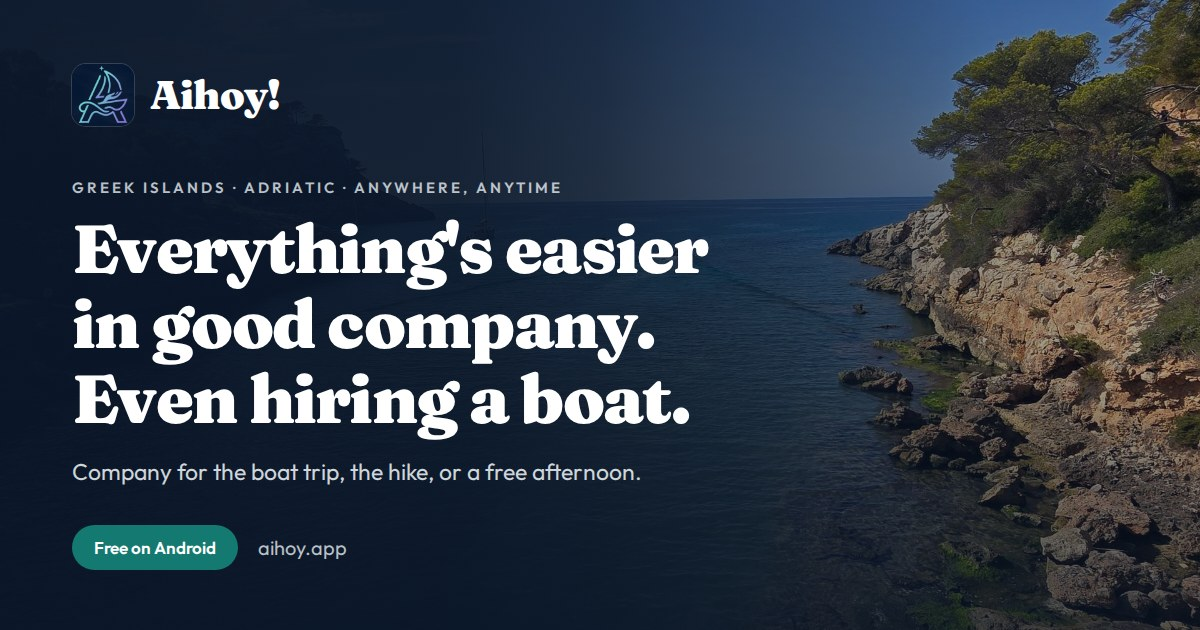
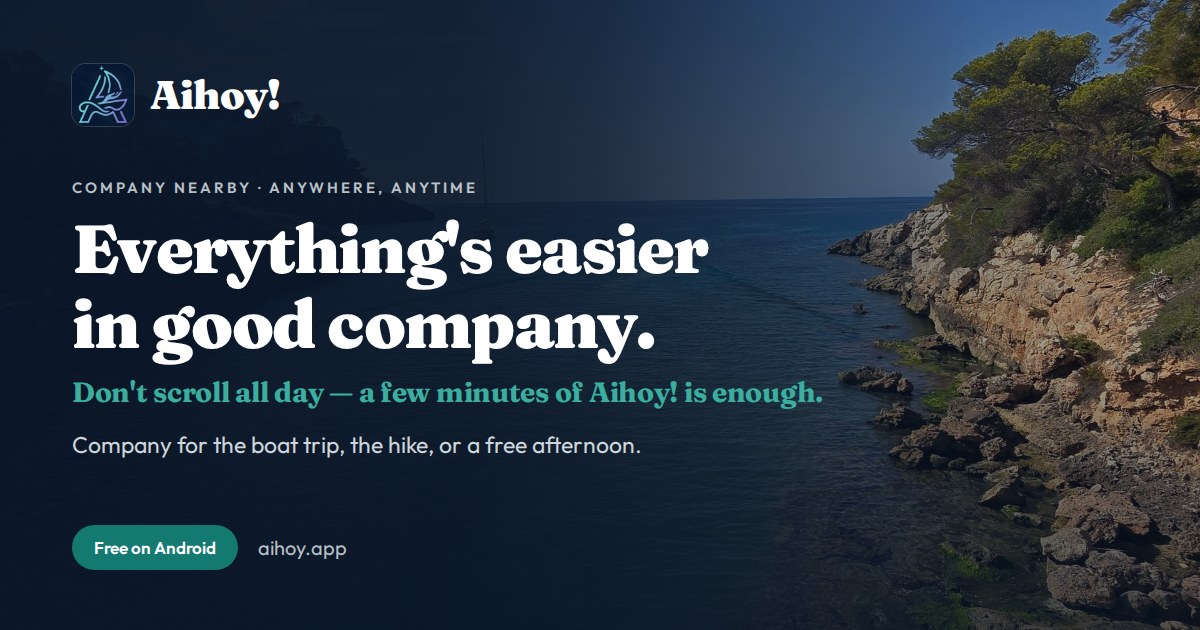
Add files via upload

Changed region(s): [[0.0617, 0.573, 0.6783, 0.7841], [0.0617, 0.2714, 0.4625, 0.3317]]

diff --git a/hu/index.html b/hu/index.html
@@ -4,7 +4,7 @@
 <meta charset="UTF-8">
 <meta name="viewport" content="width=device-width, initial-scale=1.0">
 <title>Aihoy! — Jó társaságban minden könnyebb | Társaság a közeledben</title>
-<meta name="description" content="Jó társaságban nem csak a hajóbérlés könnyebb, hanem minden más program is: az Aihoy! megkeresi a közeledben, kivel oszthatod meg a hajótúrát, a búvárkodást, a kirándulást vagy csak egy szabad délutánt — bárhol, bármikor. Ha összejön, a radar oda is vezet hozzá. Ingyenes Android app.">
+<meta name="description" content="Jó társaságban minden könnyebb — de ne görgess egész nap: az Aihoy! pár perc alatt megkeresi a közeledben, kivel oszthatod meg a hajótúrát, a kirándulást, a merülést vagy csak egy szabad délutánt — bárhol, bármikor. Ha összejön, a radar oda is vezet hozzá. Ingyenes Android app.">
 <meta name="robots" content="index, follow">
 <link rel="canonical" href="https://aihoy.app/hu/">
 <link rel="alternate" hreflang="en" href="https://aihoy.app/">
@@ -16,7 +16,7 @@
 <meta name="theme-color" content="#0A1628">
 
 <meta property="og:site_name" content="Aihoy!">
-<meta property="og:title" content="Aihoy! — Jó társaságban minden könnyebb. A hajóbérlés is.">
+<meta property="og:title" content="Aihoy! — Jó társaságban minden könnyebb. Ne görgess egész nap — Aihoy!-ozz pár percet.">
 <meta property="og:description" content="Az app megkeresi a közeledben, kivel oszthatod meg a hajót, a búvártúrát, a kirándulást vagy egy szabad délutánt — bárhol, bármikor.">
 <meta property="og:type" content="website">
 <meta property="og:locale" content="hu_HU">
@@ -24,7 +24,7 @@
 <meta property="og:image" content="https://aihoy.app/og-image-hu.jpg">
 <meta property="og:image:width" content="1200">
 <meta property="og:image:height" content="630">
-<meta property="og:image:alt" content="Aihoy! — Jó társaságban minden könnyebb. A hajóbérlés is.">
+<meta property="og:image:alt" content="Aihoy! — Jó társaságban minden könnyebb. Ne görgess egész nap — Aihoy!-ozz pár percet.">
 <meta name="twitter:card" content="summary_large_image">
 <meta name="twitter:site" content="@aihoy_app">
 
@@ -44,7 +44,7 @@
   "operatingSystem": "Android",
   "url": "https://aihoy.app/",
   "downloadUrl": "https://play.google.com/store/apps/details?id=com.aihoy.app",
-  "description": "Hajómegosztó és szabadidős társaságkereső app: beírod, mikor és hol leszel, és látod, ki lesz ugyanakkor ugyanott — bárhol, bármikor. A privát hajót meg lehet osztani és az árat elosztani, és ha a közelben vagytok, a radar oda is vezet egymáshoz.",
+  "description": "Szabadidős társaságkereső és hajómegosztó app: beírod, mikor és hol leszel, és pár perc alatt látod, ki lesz ugyanakkor ugyanott — bárhol, bármikor. Nem kell egész nap görgetni. A privát hajót meg lehet osztani és az árat elosztani, és ha a közelben vagytok, a radar oda is vezet egymáshoz.",
   "inLanguage": ["hu", "en", "de", "it", "el", "hr", "pl"],
   "isAccessibleForFree": true,
   "offers": { "@type": "Offer", "price": "0", "priceCurrency": "EUR" },
@@ -151,6 +151,9 @@ h1 {
   color: #fff; text-shadow: 0 2px 30px rgba(0,0,0,0.4);
   animation: fadeUp 0.8s 0.15s ease both;
 }
+/* 4. változat: a főcím második szintje — „Ne görgess egész nap…" (a h1 része,
+   de kisebb, türkiz; asztalon egy sorban, mobilon legalább 20 px). */
+.hero-sub { display: block; margin-top: 16px; font-size: clamp(20px, 2.4vw, 28px); font-weight: 700; line-height: 1.25; letter-spacing: -0.01em; color: var(--accent-ink); text-wrap: balance; }
 .hero-desc { max-width: 640px; font-size: 18px; line-height: 1.7; color: rgba(234,241,245,0.9); margin-bottom: 26px; text-shadow: 0 1px 14px rgba(0,0,0,0.5); animation: fadeUp 0.8s 0.25s ease both; }
 .hero-desc strong { color: #fff; font-weight: 600; }
 .hero-points { list-style: none; display: flex; flex-wrap: wrap; justify-content: center; gap: 10px; max-width: 760px; margin-bottom: 36px; animation: fadeUp 0.8s 0.3s ease both; }
@@ -530,9 +533,9 @@ footer { text-align: center; padding: 48px 24px; border-top: 1px solid var(--lin
     </picture>
   </div>
   <div class="hero-brand"><img class="logo-mark" src="/favicon-192.png" width="44" height="44" alt=""><span class="hero-wordmark">Aihoy!</span><span class="hero-tagline">The Vibematcher</span></div>
-  <p class="hero-where">Görög szigetek · Adria · és bárhol, bármikor a világban</p>
-  <h1 id="hero-title">Jó társaságban<br>minden könnyebb.<br>A hajóbérlés&nbsp;is.</h1>
-  <p class="hero-desc" id="hero-desc">Az Aihoy! nem csak hajót ad, hanem társaságot is: megmondod, mikor hol leszel és mihez lenne kedved, az app pedig megkeresi a közeledben, <strong>kivel jön össze</strong>&nbsp;— legyen az hajótúra, búvárkodás, kirándulás vagy csak egy szabad&nbsp;délután.</p>
+  <p class="hero-where">Társaság a közeledben&nbsp;· bárhol,&nbsp;bármikor</p>
+  <h1 id="hero-title">Jó társaságban<br>minden könnyebb. <span class="hero-sub">Ne görgess egész nap&nbsp;— Aihoy!-ozz pár&nbsp;percet.</span></h1>
+  <p class="hero-desc" id="hero-desc">Megmondod, mikor hol leszel és mihez lenne kedved — hajótúra, kirándulás, merülés vagy csak egy szabad délután —, az Aihoy! pedig megkeresi a közeledben, <strong>kivel jön össze</strong>. Aztán már mehetsz&nbsp;is.</p>
   <ul class="hero-points">
     <li><svg class="ic" aria-hidden="true"><use href="#i-map-pin"/></svg><span>A közeledben — és a radar oda is vezet</span></li>
     <li><svg class="ic" aria-hidden="true"><use href="#i-languages"/></svg><span>Hasonló érdeklődés, közös nyelv — a chat fordít</span></li>

diff --git a/index.html b/index.html
@@ -4,7 +4,7 @@
 <meta charset="UTF-8">
 <meta name="viewport" content="width=device-width, initial-scale=1.0">
 <title>Aihoy! — Everything's easier in good company | Company nearby</title>
-<meta name="description" content="In good company it's not just hiring a boat that's easier — it's every other plan too: Aihoy! finds who nearby you can share a boat trip, a dive, a hike or just a free afternoon with, anywhere, anytime. If it clicks, the radar leads you there. Free Android app.">
+<meta name="description" content="Everything's easier in good company — but don't scroll all day: in a few minutes Aihoy! finds who nearby you can share a boat trip, a hike, a dive or just a free afternoon with, anywhere, anytime. If it clicks, the radar leads you there. Free Android app.">
 <meta name="robots" content="index, follow">
 <link rel="canonical" href="https://aihoy.app/">
 <link rel="alternate" hreflang="en" href="https://aihoy.app/">
@@ -16,7 +16,7 @@
 <meta name="theme-color" content="#0A1628">
 
 <meta property="og:site_name" content="Aihoy!">
-<meta property="og:title" content="Aihoy! — Everything's easier in good company. Even hiring a boat.">
+<meta property="og:title" content="Aihoy! — Everything's easier in good company. Don't scroll all day — a few minutes of Aihoy! is enough.">
 <meta property="og:description" content="The app finds who nearby you can share the boat, the dive trip, the hike or a free afternoon with — anywhere, anytime.">
 <meta property="og:type" content="website">
 <meta property="og:locale" content="en_GB">
@@ -24,7 +24,7 @@
 <meta property="og:image" content="https://aihoy.app/og-image-en.jpg">
 <meta property="og:image:width" content="1200">
 <meta property="og:image:height" content="630">
-<meta property="og:image:alt" content="Aihoy! — Everything's easier in good company. Even hiring a boat.">
+<meta property="og:image:alt" content="Aihoy! — Everything's easier in good company. Don't scroll all day — a few minutes of Aihoy! is enough.">
 <meta name="twitter:card" content="summary_large_image">
 <meta name="twitter:site" content="@aihoy_app">
 
@@ -44,7 +44,7 @@
   "operatingSystem": "Android",
   "url": "https://aihoy.app/",
   "downloadUrl": "https://play.google.com/store/apps/details?id=com.aihoy.app",
-  "description": "Boat sharing and free-time company app: enter where and when you will be and see who else will be there at the same time — anywhere, anytime. Share a private boat and split the cost, and when you are close, the radar leads you to each other.",
+  "description": "Free-time company and boat sharing app: enter where and when you will be and in a few minutes see who else will be there at the same time — anywhere, anytime. No need to scroll all day. Share a private boat and split the cost, and when you are close, the radar leads you to each other.",
   "inLanguage": ["hu", "en", "de", "it", "el", "hr", "pl"],
   "isAccessibleForFree": true,
   "offers": { "@type": "Offer", "price": "0", "priceCurrency": "EUR" },
@@ -151,6 +151,9 @@ h1 {
   color: #fff; text-shadow: 0 2px 30px rgba(0,0,0,0.4);
   animation: fadeUp 0.8s 0.15s ease both;
 }
+/* 4. változat: a főcím második szintje — „Ne görgess egész nap…" (a h1 része,
+   de kisebb, türkiz; asztalon egy sorban, mobilon legalább 20 px). */
+.hero-sub { display: block; margin-top: 16px; font-size: clamp(20px, 2.4vw, 28px); font-weight: 700; line-height: 1.25; letter-spacing: -0.01em; color: var(--accent-ink); text-wrap: balance; }
 .hero-desc { max-width: 640px; font-size: 18px; line-height: 1.7; color: rgba(234,241,245,0.9); margin-bottom: 26px; text-shadow: 0 1px 14px rgba(0,0,0,0.5); animation: fadeUp 0.8s 0.25s ease both; }
 .hero-desc strong { color: #fff; font-weight: 600; }
 .hero-points { list-style: none; display: flex; flex-wrap: wrap; justify-content: center; gap: 10px; max-width: 760px; margin-bottom: 36px; animation: fadeUp 0.8s 0.3s ease both; }
@@ -546,9 +549,9 @@ footer { text-align: center; padding: 48px 24px; border-top: 1px solid var(--lin
     </picture>
   </div>
   <div class="hero-brand"><img class="logo-mark" src="/favicon-192.png" width="44" height="44" alt=""><span class="hero-wordmark">Aihoy!</span><span class="hero-tagline">The Vibematcher</span></div>
-  <p class="hero-where">Greek islands · Adriatic · anywhere, anytime</p>
-  <h1 id="hero-title">Everything's easier<br>in good&nbsp;company.<br>Even hiring a&nbsp;boat.</h1>
-  <p class="hero-desc" id="hero-desc">Aihoy! doesn't just give you a boat, it gives you company: say when and where you'll be and what you're up for, and the app finds <strong>who nearby it works out with</strong>&nbsp;— a boat trip, a dive, a hike, or just a free&nbsp;afternoon.</p>
+  <p class="hero-where">Company nearby&nbsp;· anywhere,&nbsp;anytime</p>
+  <h1 id="hero-title">Everything's easier<br>in good&nbsp;company. <span class="hero-sub">Don't scroll all day&nbsp;— a&nbsp;few&nbsp;minutes of Aihoy! is&nbsp;enough.</span></h1>
+  <p class="hero-desc" id="hero-desc">Say when and where you'll be and what you're up for — a boat trip, a hike, a dive or just a free afternoon — and Aihoy! finds <strong>who nearby it works out with</strong>. Then you're on your&nbsp;way.</p>
   <ul class="hero-points">
     <li><svg class="ic" aria-hidden="true"><use href="#i-map-pin"/></svg><span>Nearby — and the radar leads the way</span></li>
     <li><svg class="ic" aria-hidden="true"><use href="#i-languages"/></svg><span>Similar interests, a shared language — the chat translates</span></li>
